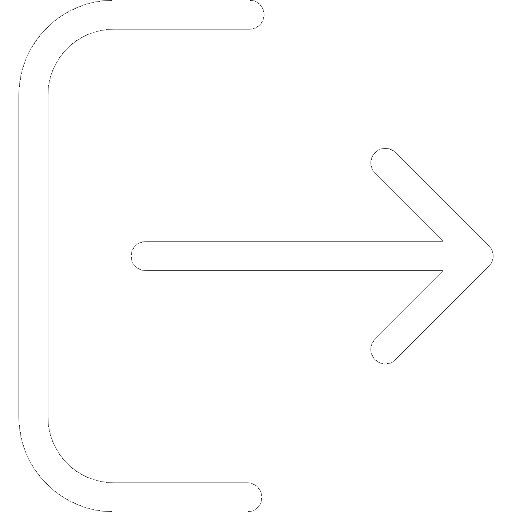
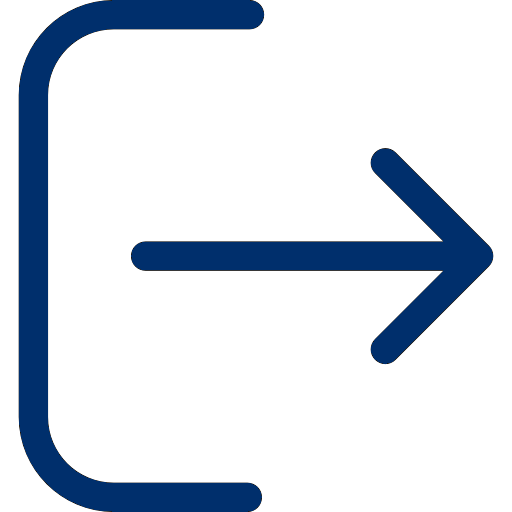
Made changes to UI

Changed region(s): [[0.0312, 0.0, 0.5312, 1.0], [0.25, 0.2812, 0.9688, 0.7188]]

diff --git a/src/components/Navbar.css b/src/components/Navbar.css
@@ -53,6 +53,9 @@ font-weight:500;
 .nav-links a:hover{
 border-bottom:2px solid #FFC72C;
 }
+.nav-links a.active {
+  border-bottom: 2px solid #FFC72C;
+}
 
 .active{
 border-bottom:2px solid #FFC72C;
@@ -74,4 +77,36 @@ display:flex;
 align-items:center;
 justify-content:center;
 font-weight:bold;
+}
+
+.sign-out-button {
+  /* Rounded corners - 8px is a soft standard, 20px+ for a pill shape */
+  border-radius: 8px; 
+  
+  /* Blue background and white text */
+  background-color: #ffffff;
+  color: #002F6C;
+  
+  /* Keeps the button looking clean */
+  border: 1px solid transparent;
+  padding: 0.3em 1.2em;
+  font-size: 1em;
+  font-family: inherit;
+  font-weight: 500;
+  cursor: pointer;
+  border: 3px solid rgba(255, 255, 255, 0.1);
+  /* Smooth transition for hover effects */
+  transition: background-color 0.25s, border-color 0.25s;
+}
+.sign-out-button img {
+  width: 16px;
+  height: 16px;
+  margin-left: 3px;
+  vertical-align: middle; 
+}
+
+/* Recommended: Add a hover state so users know it's clickable */
+.sign-out-button:hover {
+  background-color: #d9a91f;
+  border-color: #b8921a;
 }

diff --git a/src/pages/Navigation.jsx b/src/pages/Navigation.jsx
@@ -1,5 +1,6 @@
 import { useEffect, useState } from "react";
-import { Link, useLocation } from 'react-router-dom';
+import { NavLink } from 'react-router-dom';
+import { useLocation } from 'react-router-dom';
 import "../components/Navbar.css";
 import logo from '../assets/logo.png';
 import { useAuth } from "../AuthContext.jsx";
@@ -48,21 +49,21 @@ function Navbar({}) {
                     {shouldShowNavbarRoutes && (
                         <>
                             <div className="nav-links">
-                                <Link to="/dashboard" className="nav-item">
+                                <NavLink to="/dashboard" className="nav-item">
                                     Swipe In
-                                </Link>
-                                <Link to="/equipment" className="nav-item">
+                                </NavLink>
+                                <NavLink to="/equipment" className="nav-item">
                                     Equipment Checkout
-                                </Link>
+                                </NavLink>
                                 {isAdmin && (
-                                    <Link to="/analytics">
+                                    <NavLink to="/analytics" className="nav-item">
                                         Analytics
-                                    </Link>
+                                    </NavLink>
                                 )}
                                 {isAdmin && (
-                                    <Link to="/settings">
+                                    <NavLink to="/settings" className="nav-item">
                                         Settings
-                                    </Link>
+                                    </NavLink>
                                 )}
                             </div>
                             <button className="sign-out-button" onClick={handleSignOut}>

diff --git a/src/components/NavDropdown.css b/src/components/NavDropdown.css
@@ -19,7 +19,7 @@
   display: flex;
   align-items: center;
   justify-content: center;
-  gap: 8px;
+  margin-bottom: 0px;
   min-width: 150px;
   padding: 6px 12px;
   font-size: 14px;
@@ -37,25 +37,25 @@
 /* White Theme (Primary) */
 .nav-dropdown-trigger[data-theme="primary"],
 .nav-dropdown-item[data-theme="primary"] {
-  background-color: #007BFF;
+  background-color: #002F6C;
   color: white; /* Text matches the Blue Theme color */
 }
 
 .nav-dropdown-trigger[data-theme="primary"]:hover,
 .nav-dropdown-item[data-theme="primary"]:hover {
-  background-color: #007BFF; /* Slight off-white for hover feedback */
+  background-color: #002F6C; /* Slight off-white for hover feedback */
 }
 
 /* Blue Theme (Secondary) */
 .nav-dropdown-trigger[data-theme="secondary"],
 .nav-dropdown-item[data-theme="secondary"] {
-  background-color: #007BFF;
+  background-color: #002F6C;
   color: white;
 }
 
 .nav-dropdown-trigger[data-theme="secondary"]:hover,
 .nav-dropdown-item[data-theme="secondary"]:hover {
-  background-color: #007BFF;
+  background-color: #002F6C;
 }
 
 /* --- UI Elements --- */

diff --git a/src/components/Dashboard.css b/src/components/Dashboard.css
@@ -55,7 +55,7 @@
   margin-top: 20px;
   padding: 12px;
   border: none;
-  background: #1a73e8;
+  background: #002F6C;
   color: white;
   font-size: 16px;
   border-radius: 6px;
@@ -107,7 +107,7 @@
   bottom: 30px;
   right: 30px;
   padding: 12px 20px;
-  background-color: #007bff; /* Adjust to match your theme */
+  background-color: #002F6C; /* Adjust to match your theme */
   color: white;
   border: none;
   border-radius: 6px; /* Rounded pill shape */

diff --git a/src/pages/Settings.jsx b/src/pages/Settings.jsx
@@ -62,7 +62,7 @@ const Settings = () => {
   const updateBannedStudentsList = async () => {
     const docSnap = await getDocs(bannedStudentsRef);
     const bannedList = docSnap.docs.map(
-      (doc) => doc.data().FirstName + " " + doc.data().LastName + "  | unban Date: " + doc.data().dateToBeUnbanned
+      (doc) => doc.data().FirstName + " " + doc.data().LastName + "  | Unban Date: " + doc.data().dateToBeUnbanned
     );
     setBannedStudents(bannedList); // use state instead of direct DOM manipulation
   };
@@ -685,7 +685,6 @@ const Settings = () => {
           <div className="bannedStudentsListContainer">
             <div className="bannedStudentsHeader">
               <h2 className="bannedStudentsListHeader">Currently Banned Students</h2>
-              <button className="bannedStudentsListRefreshButton" onClick={updateBannedStudentsList}>Refresh</button>
             </div>
 
             <div className="bannedStudentsList" id="bannedStudentsList">

diff --git a/src/components/Index.css b/src/components/Index.css
@@ -13,7 +13,7 @@ button {
   border-radius: 8px; 
   
   /* Blue background and white text */
-  background-color: #007BFF;
+  background-color: #002F6C;
   color: #FFFFFF;
   
   /* Keeps the button looking clean */

diff --git a/src/components/Settings.css b/src/components/Settings.css
@@ -9,7 +9,7 @@
 
 .selectStudentButton{
     padding: 8px;
-    background-color: #1a73e8;
+    background-color: #002F6C;
     color: white;
     border-radius: 10px;
 }